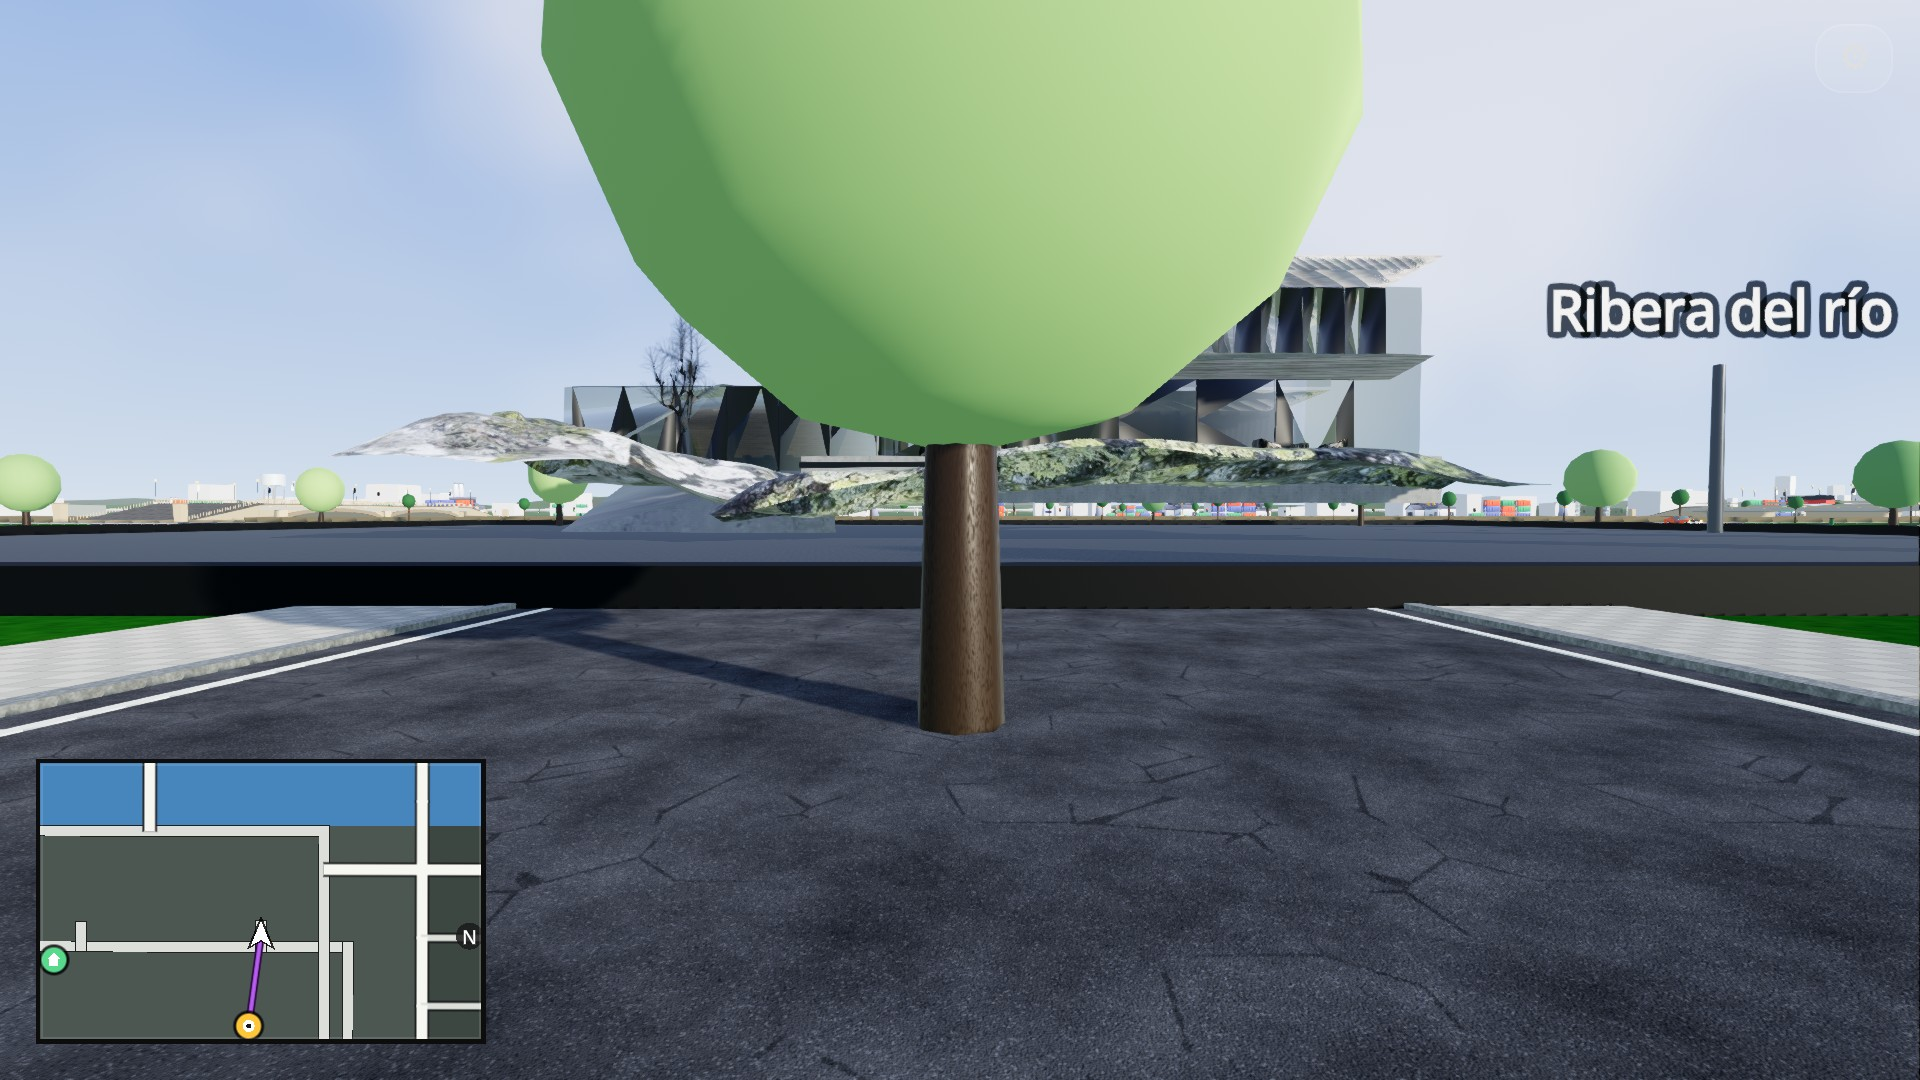
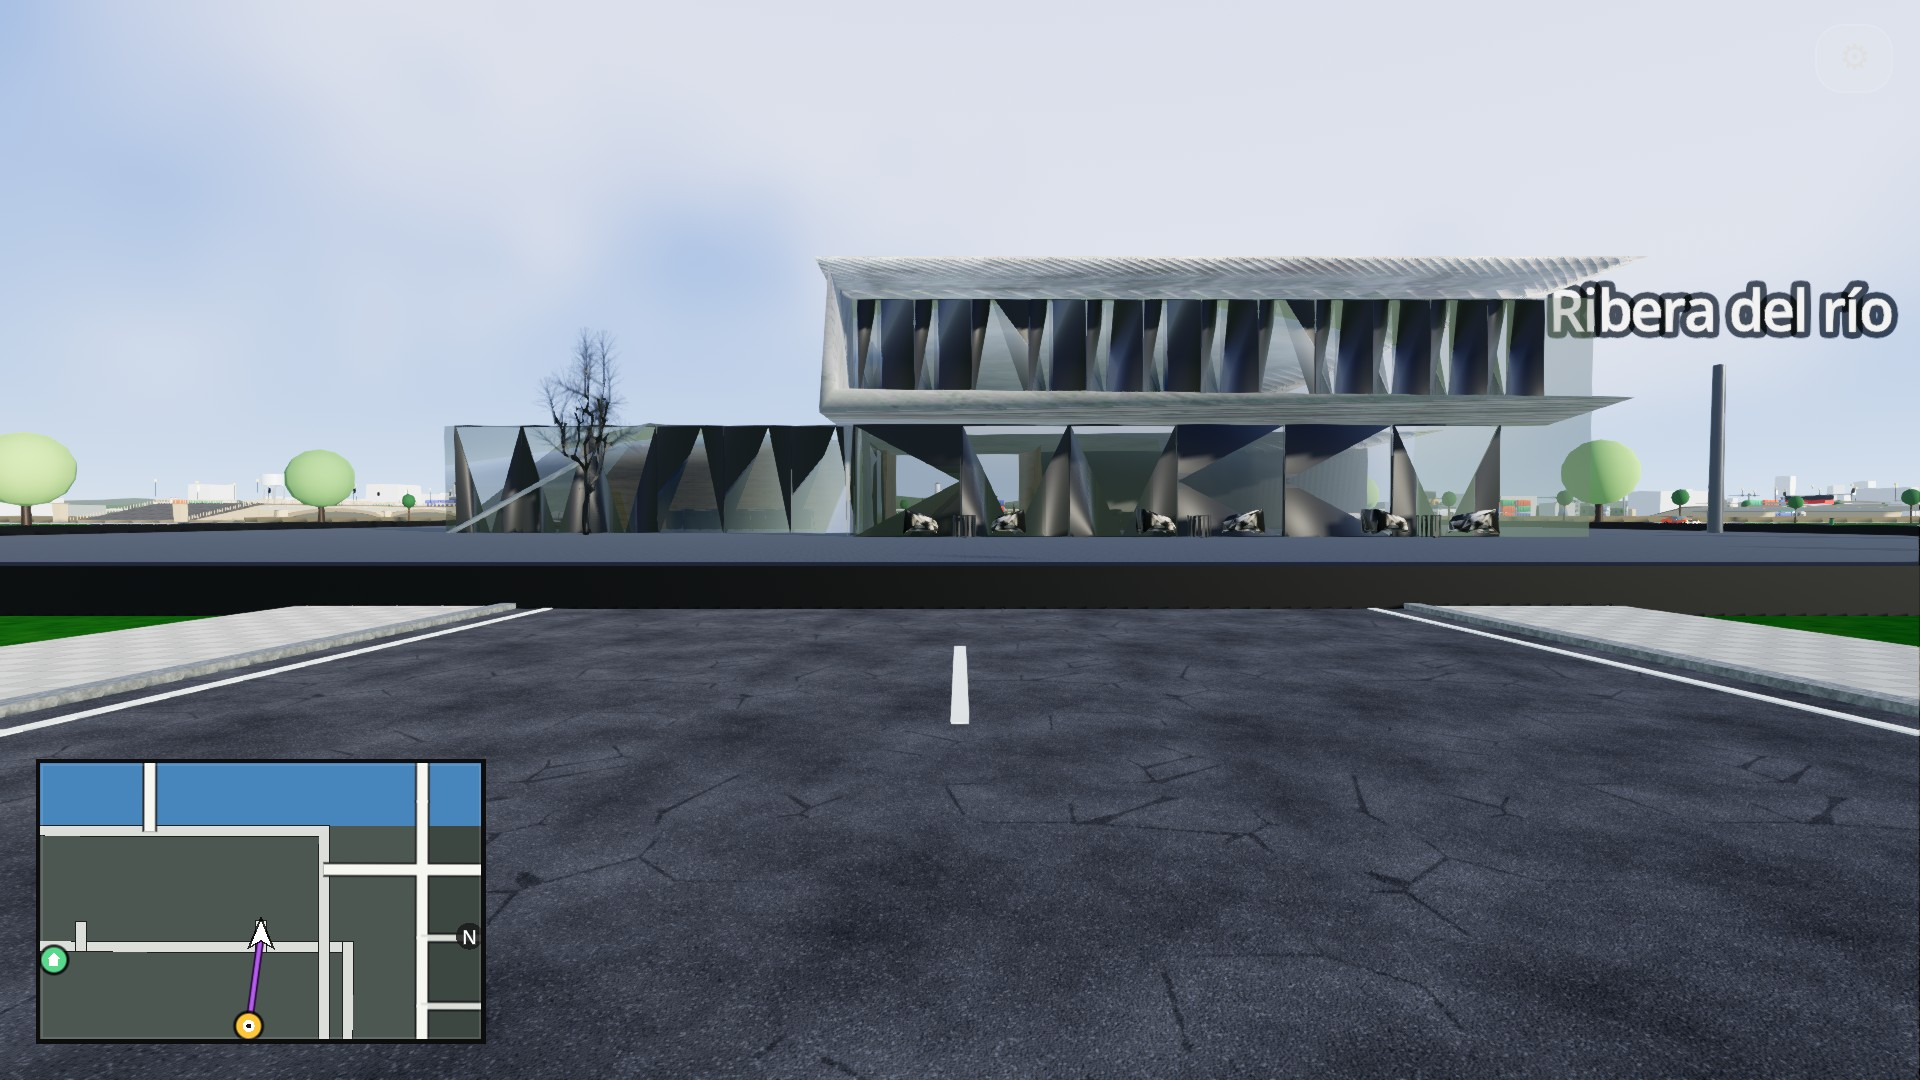
Ribera: capturas de la segunda pasada (sin rocas flotantes ni árbol en la calzada)
Claude-Session: https://claude.ai/code/session_01VUJiyfwiM2ZPT2H3gaDzqg

diff --git a/docs/04_auditorias/ciudad_26_10.md b/docs/04_auditorias/ciudad_26_10.md
@@ -106,7 +106,7 @@ Capturas antes / después en `docs/04_auditorias/capturas_ciudad_c2/` (`<zona>_<
   después: [aérea](capturas_ciudad_c2/parque_lago_aerea_despues.jpg) · [pie](capturas_ciudad_c2/parque_lago_pie_despues.jpg).
 - **Casa de la ribera.** Confirmado: mismo defecto (una cúpula blanca de ~25 m en la parcela). `CityBuilder._casa_ribera` quita ahora la semiesfera de cielo
   antes de medir y la casa moderna real sale a 22 m. Antes: [aérea](capturas_ciudad_c2/casa_ribera_aerea_antes.jpg) · [pie](capturas_ciudad_c2/casa_ribera_pie_antes.jpg);
-  después: [aérea](capturas_ciudad_c2/casa_ribera_aerea_despues.jpg) · [pie](capturas_ciudad_c2/casa_ribera_pie_despues.jpg). Pendiente: el modelo trae una losa de «roca» que
+  después: [aérea](capturas_ciudad_c2/casa_ribera_aerea_despues.jpg) · [pie](capturas_ciudad_c2/casa_ribera_pie_despues.jpg). Después de esta primera pasada se vio que las losas de roca flotaban y que había un árbol en mitad de la calzada; segunda pasada: se quitan las losas de terreno y rocas del glb (planas, por debajo de cero) y la casa se apoya en y=0, y el colocador de árboles (`_arbolado`) ya no planta sobre las calles de la ciudad grande ni sobre las del núcleo (`_vias`) — el fallo era general, la orla de cada parcela caía justo sobre las calles de acceso. Primera pasada (con rocas y árbol): [aérea](capturas_ciudad_c2/casa_ribera_aerea_intermedio.jpg) · [pie](capturas_ciudad_c2/casa_ribera_pie_intermedio.jpg).
   sobresale de la parcela (se ve en la aérea), y en la toma a pie del sur la tapa un árbol.
 - **Centro comercial (P1-4, parte) y plantilla de fachada (P1-5, primera pieza).** `FachadaModular` (`visor/fachada_modular.gd`) viste una cara con piezas de
   `edificios_modulares`: escaparates en planta baja, entrada de tres módulos con marquesina, tres pisos de ventanas y cornisa; se reutiliza en los demás singulares
